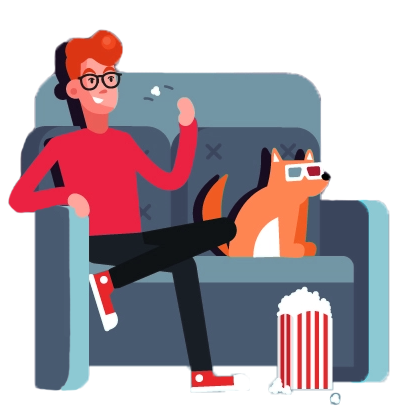
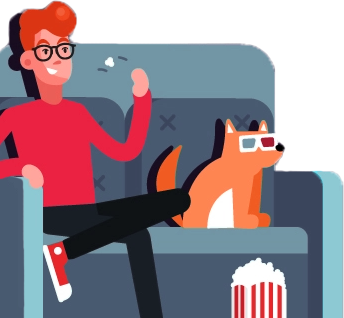
Finished Sign Up page

diff --git a/src/components/forms/SignUpForm/index.tsx b/src/components/forms/SignUpForm/index.tsx
@@ -1,0 +1,72 @@
+import React, { FunctionComponent } from "react";
+
+import {
+    Form,
+    Input,
+    FName,
+    Lname,
+    Username,
+    Email,
+    Pass,
+    ConfPass,
+    DivButton,
+    FinishButton,
+} from "./styles";
+
+interface FormInterface {
+    onChange: any;
+    onSubmit: any;
+}
+
+export const SignUpForm: FunctionComponent<FormInterface> = ({
+    onChange,
+    onSubmit,
+}) => {
+    return (
+        <Form onChange={onChange} onSubmit={onSubmit}>
+            <div>
+                <FName>
+                    <label htmlFor="firstname">First name</label>
+                    <Input type="text" name="firstname" id="firstname" />
+                </FName>
+
+                <Lname>
+                    <label htmlFor="lastname">Last name</label>
+                    <Input type="text" name="lastname" id="lastname" />
+                </Lname>
+            </div>
+
+            <div>
+                <Username>
+                    <label htmlFor="username">Username</label>
+                    <Input type="text" name="username" id="username" />
+                </Username>
+
+                <Email>
+                    <label htmlFor="email">E-mail</label>
+                    <Input type="email" name="email" id="email" />
+                </Email>
+            </div>
+
+            <div>
+                <Pass>
+                    <label htmlFor="password">Password</label>
+                    <Input type="password" name="password" id="password" />
+                </Pass>
+
+                <ConfPass>
+                    <label htmlFor="confPassword">Confirm password</label>
+                    <Input
+                        type="password"
+                        name="confPassword"
+                        id="confPassword"
+                    />
+                </ConfPass>
+            </div>
+
+            <DivButton>
+                <FinishButton type="submit">Finish</FinishButton>
+            </DivButton>
+        </Form>
+    );
+};

diff --git a/src/pages/SignUpPage/styles.ts b/src/pages/SignUpPage/styles.ts
@@ -1,0 +1,107 @@
+import styled from "styled-components";
+
+import {
+    KeyboardReturn,
+    PlayCircleFilled,
+} from "styled-icons/material-outlined";
+
+export const Container = styled.div`
+    height: 100vh;
+    display: flex;
+
+    background-color: #102538;
+
+    img {
+        position: absolute;
+        left: 0;
+        bottom: 0;
+        width: 32%;
+    }
+
+    h3 {
+        padding-top: 70px;
+        font-family: "Oxygen";
+        font-size: 18pt;
+        font-weight: normal;
+    }
+`;
+
+export const FormDiv = styled.div`
+    padding-top: 30px;
+`;
+
+export const RightPainel = styled.div`
+    margin-left: auto;
+    width: 950px;
+
+    padding: 55px 73px 0px 195px;
+
+    background-color: #fafafa;
+
+    h2 {
+        font-family: "Reem Kufi";
+        font-size: 24pt;
+        font-weight: normal;
+        color: #ff2c2c;
+        float: right;
+        pointer-events: none;
+    }
+`;
+
+export const GoBack = styled.div`
+    position: absolute;
+    left: 0;
+
+    color: #fafafa;
+
+    margin: 55px 0 0 73px;
+
+    span {
+        font-family: "Reem Kufi";
+        font-weight: normal;
+        font-size: 14pt;
+    }
+
+    margin: 55px 0 0 73px;
+`;
+
+export const LeftArrow = styled(KeyboardReturn)`
+    width: 35px;
+    height: 30px;
+    color: #ff2c2c;
+`;
+
+export const More = styled.div`
+    position: absolute;
+    left: 0;
+
+    margin: 110px 0 0 48px;
+
+    color: #fafafa;
+
+    font-family: "Rubik";
+    font-size: 20pt;
+`;
+
+export const WatchVideo = styled.div`
+    position: absolute;
+    left: 0;
+
+    margin: 190px 0 0 48px;
+
+    color: #fafafa;
+
+    font-family: "Oxygen";
+
+    display: flex;
+    align-items: center;
+    font-size: 13pt;
+
+    pointer-events: none;
+`;
+
+export const PlayIcon = styled(PlayCircleFilled)`
+    width: 45px;
+    height: 45px;
+    color: #ff2c2c;
+`;

diff --git a/src/components/forms/SignUpForm/styles.ts b/src/components/forms/SignUpForm/styles.ts
@@ -1,0 +1,92 @@
+import styled from "styled-components";
+
+export const Form = styled.form`
+    width: 540px;
+
+    textarea:focus,
+    input:focus,
+    button:focus {
+        outline: none;
+    }
+
+    input,
+    label {
+        display: block;
+    }
+
+    label {
+        font-family: "Oxygen";
+        margin-bottom: 5px;
+    }
+
+    div {
+        margin-bottom: 30px;
+    }
+`;
+
+export const Input = styled.input`
+    padding: 0px 15px;
+    background-color: #e3e3e3;
+    height: 35px;
+    width: 250px;
+    border: none;
+    border-radius: 6px;
+    font-size: 12pt;
+
+    transition: box-shadow 0.1s;
+    transition: background-color 0.2s linear;
+
+    &:hover {
+        box-shadow: 0 0 3pt 3pt rgba(12, 53, 159, 0.2);
+        background-color: #fafafa;
+    }
+
+    &:target {
+        border: solid 1px #102538;
+    }
+`;
+
+export const FName = styled.div`
+    float: left;
+    margin-right: 40px;
+`;
+
+export const Lname = styled.div``;
+
+export const Username = styled.div`
+    float: left;
+    margin-right: 40px;
+`;
+
+export const Email = styled.div``;
+
+export const Pass = styled.div`
+    float: left;
+    margin-right: 40px;
+`;
+
+export const ConfPass = styled.div``;
+
+export const FinishButton = styled.button`
+    background-color: #ff2c2c;
+    border: none;
+    width: 95px;
+    height: 40px;
+    color: #fafafa;
+    font-size: 13pt;
+    font-family: "Rubik";
+
+    cursor: pointer;
+
+    &:hover {
+        background-color: #c41f1f;
+    }
+`;
+
+export const DivButton = styled.div`
+    display: flex;
+    align-items: center;
+    justify-content: center;
+`;
+// export const Form = styled.form``;
+// export const Form = styled.form``;

diff --git a/src/pages/SignUpPage/index.tsx b/src/pages/SignUpPage/index.tsx
@@ -1,0 +1,50 @@
+import React, { FormEvent } from "react";
+import { Link } from "react-router-dom";
+
+import { SignUpForm } from "../../components";
+
+import {
+    Container,
+    RightPainel,
+    FormDiv,
+    GoBack,
+    LeftArrow,
+    More,
+    WatchVideo,
+    PlayIcon,
+} from "./styles";
+
+import Boidog from "../../assets/boidog.png";
+
+export const SignUpPage = () => {
+    function onSubmit(e: FormEvent) {
+        e.preventDefault();
+    }
+
+    return (
+        <Container>
+            <RightPainel>
+                <h2>Bloobuster</h2>
+                <h3>Sign Up</h3>
+                <FormDiv>
+                    <SignUpForm onChange onSubmit={onSubmit} />
+                </FormDiv>
+            </RightPainel>
+            <Link to="/login">
+                <GoBack>
+                    <LeftArrow />
+                    <span>go back</span>
+                </GoBack>
+            </Link>
+            <More>
+                Want to know more about
+                <br /> Bloobuster’s community?
+            </More>
+            <WatchVideo>
+                <PlayIcon />
+                <span>Watch our introdutory video</span>
+            </WatchVideo>
+            <img src={Boidog} alt="boyandog.png" />
+        </Container>
+    );
+};

diff --git a/src/routes.tsx b/src/routes.tsx
@@ -3,6 +3,7 @@ import { BrowserRouter, Switch, Route } from "react-router-dom";
 
 import { WelcomePage } from "./pages/WelcomePage";
 import { LoginPage } from "./pages/LoginPage";
+import { SignUpPage } from "./pages/SignUpPage";
 
 const Routes = () => {
     return (
@@ -10,6 +11,7 @@ const Routes = () => {
             <Switch>
                 <Route path="/" component={WelcomePage} exact />
                 <Route path="/login" component={LoginPage} />
+                <Route path="/signup" component={SignUpPage} />
             </Switch>
         </BrowserRouter>
     );

diff --git a/src/pages/LoginPage/styles.ts b/src/pages/LoginPage/styles.ts
@@ -6,6 +6,8 @@ export const Container = styled.div`
     height: 100vh;
     display: flex;
 
+    background-color: #fafafa;
+
     img {
         position: absolute;
         left: 0;
@@ -31,6 +33,7 @@ export const RightPainel = styled.div`
         font-size: 24pt;
         font-weight: normal;
         margin-left: auto;
+        pointer-events: none;
     }
 `;
 
@@ -114,7 +117,7 @@ export const GoBack = styled.div`
 
 export const LeftArrow = styled(KeyboardReturn)`
     width: 35px;
-    height: 35px;
+    height: 30px;
     color: #ff2c2c;
 `;
 

diff --git a/src/components/forms/LoginForm/styles.ts b/src/components/forms/LoginForm/styles.ts
@@ -65,4 +65,12 @@ export const SignInButton = styled.button`
         font-family: "Rubik";
         font-size: 14pt;
     }
+
+    cursor: pointer;
+
+    transition: background-color 0.2s;
+
+    &:hover {
+        background-color: #c41f1f;
+    }
 `;

diff --git a/src/pages/WelcomePage/styles.ts b/src/pages/WelcomePage/styles.ts
@@ -9,6 +9,8 @@ export const Container = styled.div`
     height: 100vh;
     display: flex;
 
+    background-color: #fafafa;
+
     img {
         position: absolute;
         right: 0;

diff --git a/src/components/index.ts b/src/components/index.ts
@@ -1,3 +1,4 @@
 import { LoginForm } from "./forms/LoginForm";
+import { SignUpForm } from "./forms/SignUpForm";
 
-export { LoginForm };
+export { LoginForm, SignUpForm };
